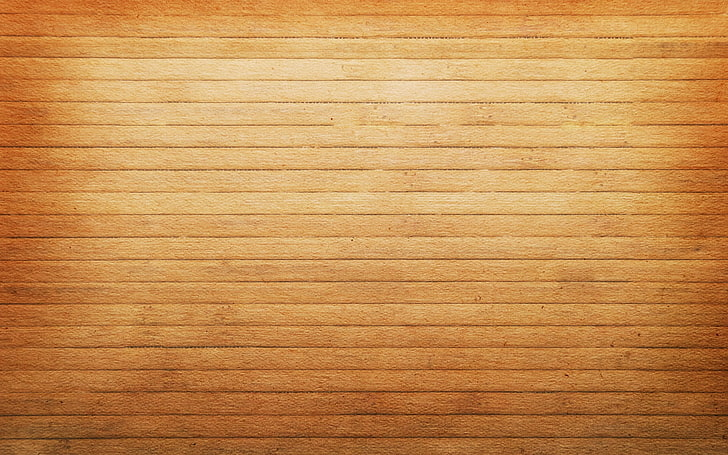
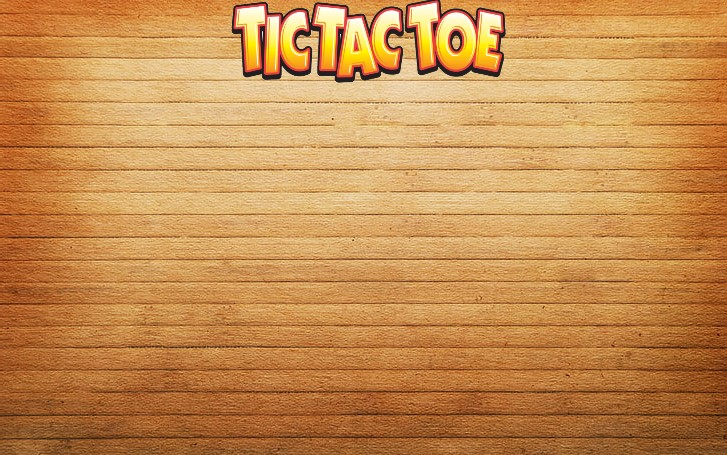
Not worked choice box and dome improves

diff --git a/src/com/kodilla/first/individual/project/controllers/AppController.java b/src/com/kodilla/first/individual/project/controllers/AppController.java
@@ -1,6 +1,7 @@
 package com.kodilla.first.individual.project.controllers;
 
 import javafx.fxml.FXML;
+import javafx.scene.control.ChoiceBox;
 import javafx.scene.image.Image;
 import javafx.scene.image.ImageView;
 import javafx.scene.layout.BackgroundImage;
@@ -9,14 +10,38 @@ import javafx.scene.layout.Pane;
 import java.io.File;
 
 public class AppController {
+    public final static Image OLETTER = new Image("file:resources/o-letter.png");
+    public final static Image XLETTER = new Image("file:resources/x-letter.png");
 
     private MainController mainController;
+    @FXML
+    ChoiceBox<String> choiceBox;
+    @FXML
+    ImageView image00;
+    @FXML
+    ImageView image01;
+    @FXML
+    ImageView image02;
+    @FXML
+    ImageView image10;
+    @FXML
+    ImageView image11;
+    @FXML
+    ImageView image12;
+    @FXML
+    ImageView image20;
+    @FXML
+    ImageView image21;
+    @FXML
+    ImageView image22;
 
     @FXML
     private ImageView testImage;
 
     @FXML
     public void initialize(){
+        choiceBoxInit();
+
         File file = new File("resources/o-letter.png");
         Image kolko = new Image(file.toURI().toString());
         System.out.println(file.toURI().toString());
@@ -26,8 +51,51 @@ public class AppController {
     public void backMenu(){
         mainController.loadMenuScreen();
     }
+    @FXML
+    public void image00Clicked(){
+        image00.setImage(OLETTER);
+    }
+
+    @FXML
+    public void image01Clicked(){
+        image01.setImage(XLETTER);
+    }
+    @FXML
+    public void image02Clicked(){
+        image02.setImage(XLETTER);
+    }
+    @FXML
+    public void image10Clicked(){
+        image10.setImage(XLETTER);
+    }
+    @FXML
+    public void image11Clicked(){
+        image11.setImage(XLETTER);
+    }
+    @FXML
+    public void image12Clicked(){
+        image12.setImage(XLETTER);
+    }
+    @FXML
+    public void image20Clicked(){
+        image20.setImage(XLETTER);
+    }
+    @FXML
+    public void image21Clicked(){
+        image21.setImage(XLETTER);
+    }
+    @FXML
+    public void image22Clicked(){
+        image22.setImage(XLETTER);
+    }
 
     public void setMainController(MainController mainController) {
         this.mainController = mainController;
+    }
+
+    private void choiceBoxInit(){
+        choiceBox.getItems().add("Kółko");
+        choiceBox.getItems().add("Krzyżyk");
+        choiceBox.setValue("Krzyżyk");
     }
 }

diff --git a/src/com/kodilla/first/individual/project/controllers/MenuController.java b/src/com/kodilla/first/individual/project/controllers/MenuController.java
@@ -34,6 +34,8 @@ public class MenuController {
         appController.setMainController(mainController);
         ImageView imageView = new ImageView(new Image("file:resources/woodenBcg.jpg"));
         //  imageView.setScaleX(1.1);
+        imageView.setFitHeight(400);
+        imageView.setY(130);
         mainController.setBackgroundAndScreen(imageView, pane);
         //mainController.setScreen(pane);
 
